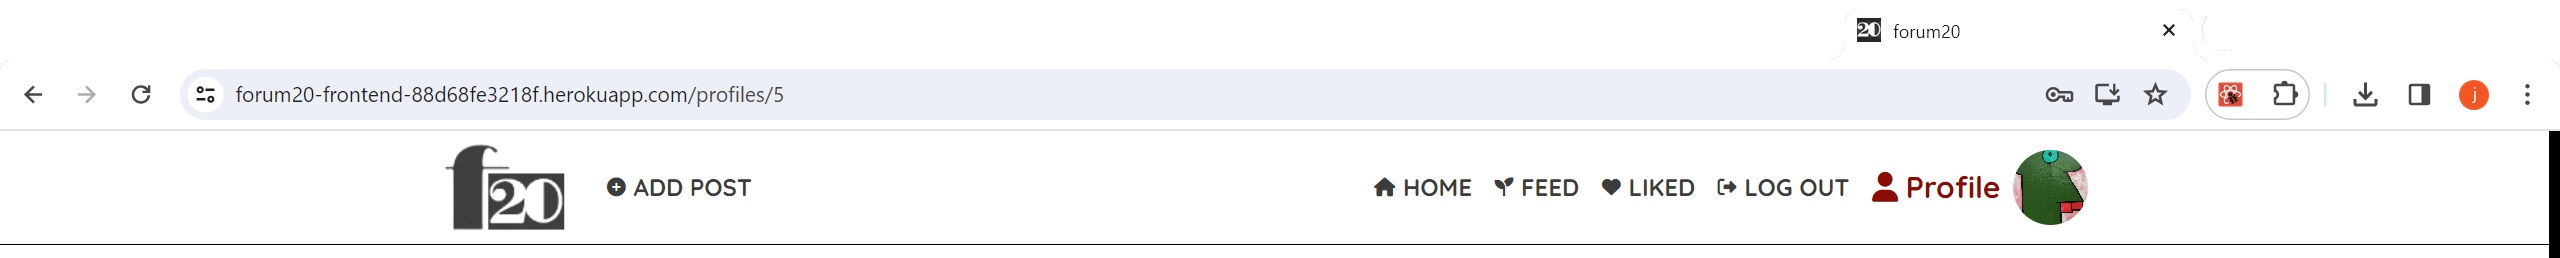
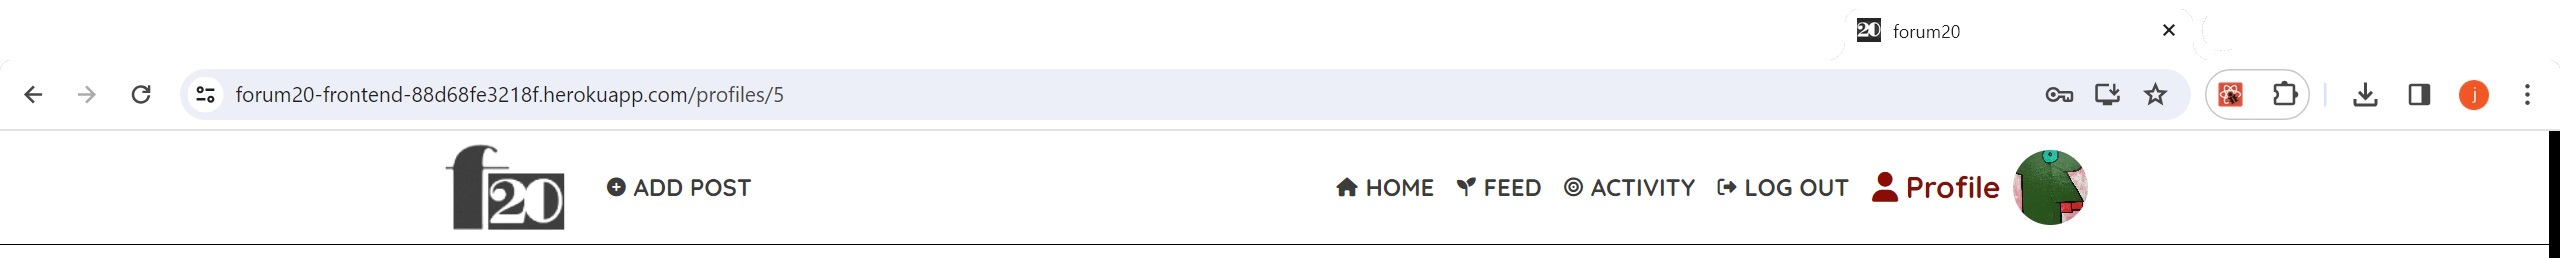
Updated README to reflect new Activity page inclusion; expanded Features section to include benefits of React architecture.

Changed region(s): [[0.5, 0.6822, 0.6875, 0.7752]]

diff --git a/README.md b/README.md
@@ -207,7 +207,7 @@ The site uses just one font, Quicksand, imported from Google Fonts. It is a mode
 #### Imagery
 
 Whilst the only imagery aside from a minimal logo comes in the form of user posts and avatars, this is positively sufficient, visually: rectangular images of artworks and contrastingly small, circular avatar 'buttons' create an appealing uniformity. Through usage of the CSS property 'object-fit: contain' and the 'img-fluid' class, post images are standardised with a consistent aspect ratio, and the black background creates the letterbox effect, resulting in a stylish display:<br><br>
-<img src="README%20images/letterbox1.jpg" width="37px">
+<img src="README%20images/letterbox1.jpg" width="375px">
 <img src="README%20images/letterbox4.jpg" width="375px">
 
 #### Favicon
@@ -237,14 +237,17 @@ This is an application where visitors can explore 20th century artworks and enri
  - User Profiles: each registered user has a Profile page displaying their name, avatar, bio section and their submitted posts.
  - Admin Panel: through the Django admin panel, admin personnel have control to manage user accounts and site content.
  - JSON Web Tokens: JWT's are utilised to maintain user sessions securely, allowing users to remain logged in until they choose to log out.
- - Infinite Scroll: this enhancement means posts are loaded automatically without the need to navigate to a different page.
- - Responsive Design: the application adapts to various screen sizes, ensuring a decent user experience across devices.
- - Routing: this enables seamless navigation between different sections, offering users a structured and intuitive browsing experience.
-
+ 
+ - React architecture: UX is enhanced by use of the following features of React:
+    - Components: React's modular approach enables faster development and consistency
+    - Rendering: the Virtual DOM ensures quick updates, leading to smoother interactions
+    - State Management: React's built-in state management tools keep UIs up-to-date with minimal code
+    - Routing: React Router enables seamless navigation without page reloads, offering users a structured and intuitive browsing experience
+    - Infinite Scroll: implemented for effortless browsing, loading content dynamically without navigating to a different page.
 
 ### Features to implement
 
- - Activity: the site could be extended to offer functionality more akin to a conventional social media app whereby users can privately message each other, receive notifications,add tags to content and so on.
+ - Extended Features: the site could be augmented to offer functionality more akin to a conventional social media app whereby users can privately message each other, receive notifications, add tags to content and so on.
  - File Uploads: implementing the ability to upload various file types such as documents, video, audio, to share not only images but articles, exhibition news and reviews, book recommendations, podcasts and the like would significantly enhance the scope of forum20.
  - User Profiles: there is the potential to develop members' profile pages, extending beyond a simple bio with perhaps a section detailing favourite artists, for example, and stats as to how active they are, e.g. number of posts.
 
@@ -269,11 +272,15 @@ These pages both present forms for their respective purposes. Simplicity is key 
 <img src="README%20images/page-log_in2.jpg" width="270px">
 <img src="README%20images/page-sign_up.jpg" width="270px">
 
-### Feed and Liked pages
+### Feed page
 
-Tailored content is displayed to the registered user through these pages. The Feed presents a curated view of posts from other members whom the user follows, giving easy access to new, relevant content at a click. The Liked page aggregates all the posts that the user has expressed interest in by adding a like, and this provides a convenient way for the user to revisit and review their interactions:<br><br>
-<img src="README%20images/page-feed.jpg"><br><br>
-<img src="README%20images/page-liked.jpg">
+Tailored content is displayed to the registered user through this page. The Feed presents a curated view of posts from other members whom the user follows, giving easy access to new, relevant content at a click:<br><br>
+<img src="README%20images/page-feed.jpg">
+
+### Activity page
+
+The Activity page aggregates all the comments that the authenticated user has submitted. This provides a convenient way for the user to revisit and review these interactions, with the options to revisit the relevant post page as well as edit and delete the comments:<br><br>
+<img src="README%20images/page-activity.jpg">
 
 ### Add Post page
 
@@ -377,12 +384,9 @@ The app is not yet presented in a completed or optimal state and would benefit f
    - Addressing the tests that failed to pass, particularly around functionality of post editing. See <u>[documentation](README%20images/forum20%20testing.pdf)</u>.
    - A feature for retrieving a forgotten password
    - An option for the user to delete their account
-   - Consistent and effective application of error and success messaging
-   - Provide clarity to the user that, when uploading a post, it must include a title
    - Ensuring application of the active class (NavLink style) upon all page reloads
    - Improving the visibilty of Follow/Unfollow buttons in the 'Most followed profiles' box so users can see at a glance which profiles they currently follow
-   - Reworking the Liked page into an Activity page to display the logged-in user's contributions - likes, comments, posts, etc. - in a single, organised view. [This was attempted but not able to be made fully functional within the timeframe.]
-   - Removing the 'Most followed profiles' component that renders at the bottom of the screen on mobiles
+   - Expanding the Activity page to include the display of, for example, the logged-in user's likes and follows
    - The logo could be remade to render more sharply.
 
 ## Credits
